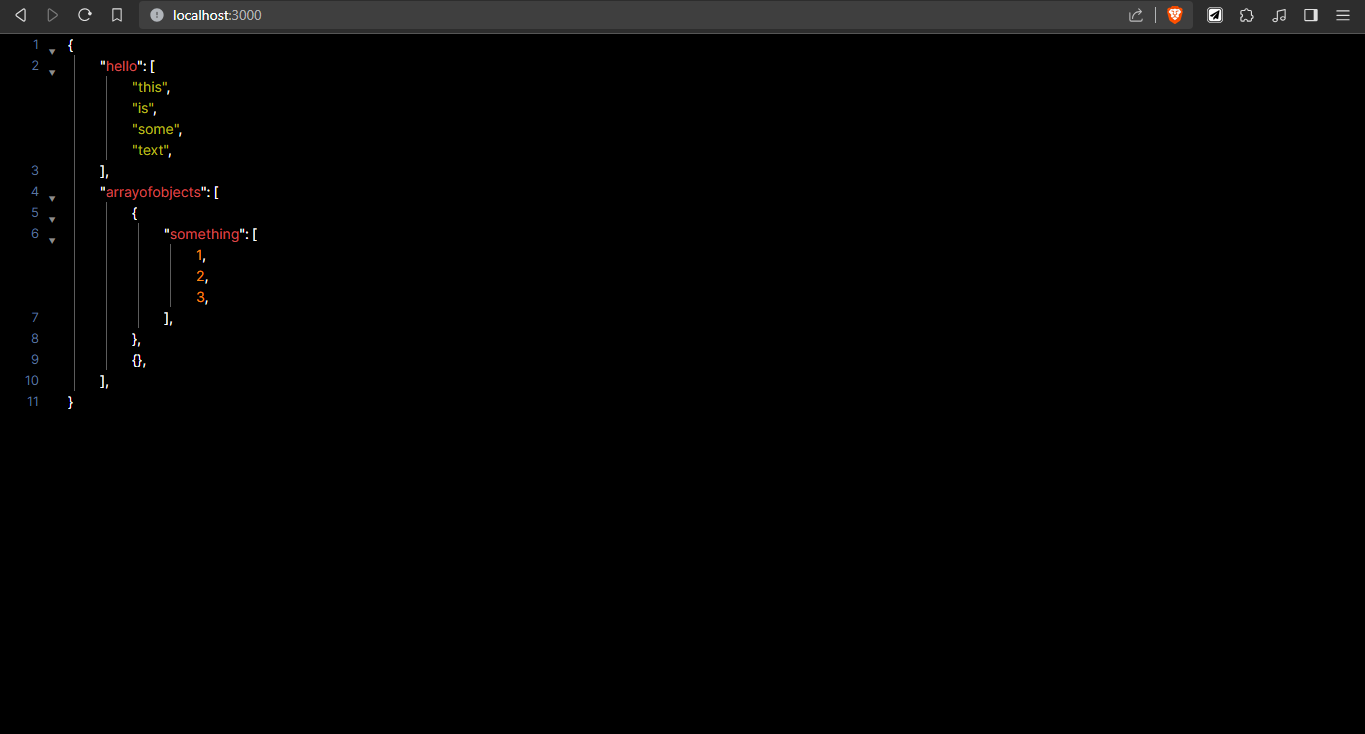
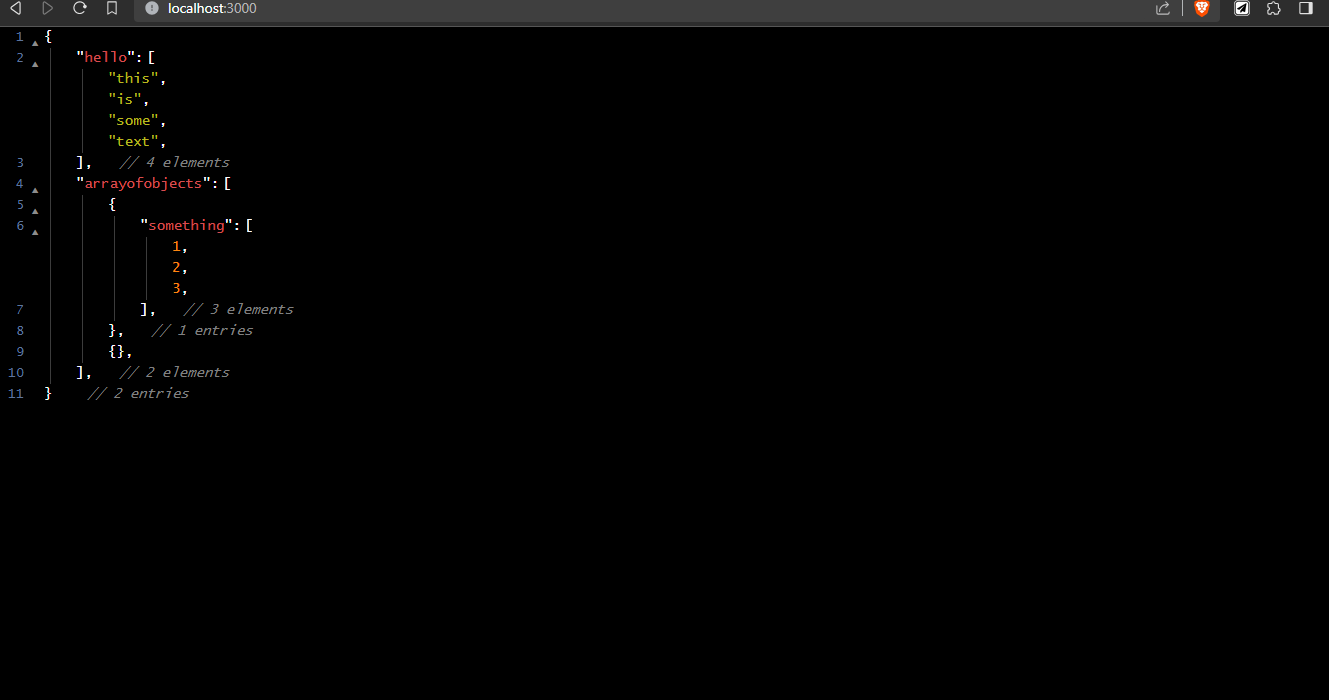
added functionality for react

diff --git a/index.ts b/index.ts
@@ -6,6 +6,20 @@ let num = 0;
 const tags = {
   div: (data: string, style?: string): string => `<div ${style ? `style="${style}"` : ''}>${data}</div>`,
   span: (data: string, style?: string): string => `<span ${style ? `style="${style}"` : ''}>${data}</span>`,
+  comment: (data: string, styles: JsonToHtmlOptionType): string =>
+    styles.comments!.show
+      ? `<i style="
+    color:${styles.comments!.color};
+    position:absolute;
+    margin-left:${styles.comments!.space_from_left};
+    -webkit-touch-callout: none;
+    -webkit-user-select: none;
+    -khtml-user-select: none;
+    -moz-user-select: none;
+    -ms-user-select: none;
+    user-select: none;
+    ">${data}</i>`
+      : '',
   br: () => `<br>`,
   code: (data: (...args: any[]) => any | string, styles: JsonToHtmlOptionType, style?: string) =>
     `<pre style="
@@ -25,6 +39,12 @@ const tags = {
     background:${styles.colors!.background!};
     font-size:calc(${styles.fontSize} - 1px);
     translate: -100% 1px;
+    -webkit-touch-callout: none;
+    -webkit-user-select: none;
+    -khtml-user-select: none;
+    -moz-user-select: none;
+    -ms-user-select: none;
+    user-select: none;
       ${style || ''}"
       >${++num}</span>`
       : '',
@@ -46,18 +66,34 @@ const tags = {
       ? `<button style="
         color:${styles.retractors!.color};
         position:absolute;
-        left: calc(${styles.line_numbers!.space_from_left} + ${styles.retractors!.space_from_left} + ${
-          styles.line_numbers!.show ? styles.fontSize : '0px'
-        });
-        translate:0 -${styles.fontSize};
+        left:${styles.retractors!.space_from_left};
+        translate:0 -${styles.fontSize!};
         background: ${styles.colors!.background};
 	      border: none;
 	      padding: 0;
 	      outline: inherit;
         overflow: hidden;
         font-size: ${styles.fontSize};
+        -webkit-touch-callout: none;
+        -webkit-user-select: none;
+        -khtml-user-select: none;
+        -moz-user-select: none;
+        -ms-user-select: none;
+        user-select: none;
         "
-        onclick="jsontohtmlClose(this)">▾</button>`
+        onclick="(function(e){
+          const entries = e.target.parentElement.querySelector('div');
+          if(entries.style.display === 'block' || entries.style.display === ''){
+            entries.style.display = 'none';
+            e.target.parentElement.style.display = 'inline-block'
+            e.target.innerText = '▾';
+          }else {
+            entries.style.display = 'block';
+            e.target.parentElement.style.display = 'block'
+            e.target.innerText = '▴';
+          }
+        return false;
+        })(arguments[0]);return false;">▴</button>`
       : '',
 };
 
@@ -94,7 +130,8 @@ const parseOperations = {
         }`,
       ) +
       tags.number(styles) +
-      tags.curlyBrace('}', styles)
+      tags.curlyBrace('}', styles) +
+      tags.comment(` // ${Object.entries(data).length} entries`, styles)
     );
   },
   array: (data: any[], styles: JsonToHtmlOptionType): string => {
@@ -109,6 +146,7 @@ const parseOperations = {
         `padding-left:${styles.space!};`,
       );
     }
+
     return (
       tags.squareBrace('[', styles) +
       tags.div(
@@ -121,7 +159,8 @@ const parseOperations = {
         }`,
       ) +
       tags.number(styles) +
-      tags.squareBrace(']', styles)
+      tags.squareBrace(']', styles) +
+      tags.comment(` // ${data.length} elements`, styles)
     );
   },
   string: (data: string, styles: JsonToHtmlOptionType): string => {
@@ -151,16 +190,27 @@ const parseJson = (data: any, styles: JsonToHtmlOptionType, addNumber?: boolean)
   if (typeof data === 'object' && data instanceof Object && !(data instanceof Array))
     return parseOperations.object(data, styles);
   else if (typeof data === 'object' && data instanceof Array) {
-    const html =
-      `${styles.line_numbers!.show && (num === 0 || addNumber) ? tags.number(styles) : ''}` +
-      parseOperations.array(data, styles);
+    const html = `${num === 0 || addNumber ? tags.number(styles) : ''}` + parseOperations.array(data, styles);
     return html;
-  } else if (typeof data === 'string') return parseOperations.string(data, styles);
-  else if (typeof data === 'object' && JSON.stringify(data) === 'null') return parseOperations.null(styles);
-  else if (typeof data === 'number') return parseOperations.number(data, styles);
-  else if (typeof data === 'boolean') return parseOperations.boolean(data, styles);
-  else if (typeof data === 'undefined') return parseOperations.undefined(styles);
-  else if (typeof data === 'function') return parseOperations.function(data, styles);
+  } else if (typeof data === 'string') {
+    const html = `${num === 0 ? tags.number(styles) : ''}` + parseOperations.string(data, styles);
+    return html;
+  } else if (typeof data === 'object' && JSON.stringify(data) === 'null') {
+    const html = `${num === 0 ? tags.number(styles) : ''}` + parseOperations.null(styles);
+    return html;
+  } else if (typeof data === 'number') {
+    const html = `${num === 0 ? tags.number(styles) : ''}` + parseOperations.number(data, styles);
+    return html;
+  } else if (typeof data === 'boolean') {
+    const html = `${num === 0 ? tags.number(styles) : ''}` + parseOperations.boolean(data, styles);
+    return html;
+  } else if (typeof data === 'undefined') {
+    const html = `${num === 0 ? tags.number(styles) : ''}` + parseOperations.undefined(styles);
+    return html;
+  } else if (typeof data === 'function') {
+    const html = `${num === 0 ? tags.number(styles) : ''}` + parseOperations.function(data, styles);
+    return html;
+  }
 
   return parseOperations.other(data, styles);
 };
@@ -173,6 +223,10 @@ export function jsontohtml(data: any, options?: JsonToHtmlOptionType): string {
     colors: {
       ...defaultStyles.colors,
       ...options?.colors,
+    },
+    comments: {
+      ...defaultStyles.comments,
+      ...options?.comments,
     },
     line_numbers: {
       ...defaultStyles.line_numbers,
@@ -199,36 +253,13 @@ export function jsontohtml(data: any, options?: JsonToHtmlOptionType): string {
   return `
   <div style="
   position:relative;
-  ${
-    styles.line_numbers
-      ? `padding-left:calc(${styles.space_from_left!} + ${styles.line_numbers!.space_from_left} + ${
-          styles.retractors!.space_from_left
-        } + ${styles.line_numbers!.show ? styles.fontSize : '0px'});`
-      : ''
-  }
+  padding-left:${styles.space_from_left};
   background:${styles.colors!.background};
-  font-size:${styles.fontSize};
+  font-size:${styles.fontSize} !important;
   ${styles.font ? `font-family:${styles.font}` : ''}
   ">
   ${parseJson(data, styles)}
   </div>
-  ${
-    styles.retractors!.show
-      ? `<script>
-    const jsontohtmlClose = (element)=>{
-      const parent = element.parentElement;
-      const dataTag = parent.querySelector("div");
-      if(dataTag.style.display === "block" || dataTag.style.display === ""){
-        dataTag.style.display = "none";
-        element.innerText = "▴";
-      }else {
-        dataTag.style.display = "block";
-        element.innerText = "▾";
-      }
-    }
-  </script>`
-      : ''
-  }
   `.replace(
     /(https?:\/\/(www\.)?[-a-zA-Z0-9@:%._\+~#=]{2,256}\.[a-z]{2,4}\b([-a-zA-Z0-9@:%_\+.~#?&//=]*))/g,
     `${

diff --git a/src/default.ts b/src/default.ts
@@ -2,8 +2,9 @@ import { JsonToHtmlOptionType } from './types';
 
 export const defaultStyles: JsonToHtmlOptionType = {
   fontSize: '14px',
+  font: "'Lucida Console', monospace",
   space: '25px',
-  space_from_left: '20px',
+  space_from_left: '50px',
   links: true,
   colors: {
     background: 'black',
@@ -21,19 +22,24 @@ export const defaultStyles: JsonToHtmlOptionType = {
       comma_colon_quotes: '#FFFFFF',
     },
   },
+  comments: {
+    show: true,
+    color: 'gray',
+    space_from_left: '35px',
+  },
   retractors: {
     show: true,
     color: '#8c8c8c',
-    space_from_left: '-5px',
+    space_from_left: '37px',
   },
   line_numbers: {
     show: true,
     color: '#5c749c',
-    space_from_left: '40px',
+    space_from_left: '30px',
   },
   bracket_pair_lines: {
     show: true,
-    color: '#5c5c5c',
+    color: '#3c3c3c',
     space_from_left: '6px',
     type: 'solid',
   },

diff --git a/src/types.ts b/src/types.ts
@@ -20,6 +20,11 @@ export interface JsonToHtmlOptionType {
       comma_colon_quotes?: string;
     };
   };
+  comments?: {
+    show?: boolean;
+    color?: string;
+    space_from_left?: string;
+  };
   line_numbers?: {
     show?: boolean;
     color?: string;

diff --git a/README.md b/README.md
@@ -16,6 +16,7 @@ npm install jsontohtml-render
 - [Usage](#usage)
   - [Usage Example](#usage-examples)
 - [Options](#options)
+  - [Options Usage Example](#options-usage-examples)
   - [Option type definition](#type-declaration-of-the-options-property-of-type-jsontohtmloptiontype)
   - [Option default values](#default-values)
   - [Description of all the options available](#description-of-the-options)
@@ -73,9 +74,7 @@ export default function Home() {
 
   const makeRequest = async (url: string) => {
     const result = await axios.get(url);
-
-    // because react and next do not allow script tags, retractors cannot be used
-    setHtml(jsontohtml(result.data, { retractors: { show: false } }));
+    setHtml(jsontohtml(result.data));
   };
 
   useEffect(() => {
@@ -93,6 +92,59 @@ export default function Home() {
 ## Options
 
 The html preview of the object can be fully customized with the options property.
+
+### Options usage examples
+
+- For increasing the font size, you also need to change the spacing (for better formatting):
+
+```js
+jsontohtml(data, {
+  fontSize: '25px',
+  space: '40px',
+  space_from_left: '80px',
+  line_numbers: { space_from_left: '50px' },
+  retractors: { space_from_left: '60px' },
+});
+```
+
+- You can change visibility of any components:
+
+```js
+jsontohtml(data, {
+  line_numbers: { show: false },
+
+  // for better formatting
+  space_from_left: '20px',
+  retractors: { space_from_left: '5px' },
+});
+```
+
+- For changing colors:
+
+```js
+jsontohtml(data, {
+  colors: {
+    background: 'white',
+    keys: 'red',
+    values: {
+      string: 'green',
+      number: '#FFA500',
+      comma_colon_quotes: '#9c9c9c',
+    },
+  },
+  bracket_pair_lines: { color: '#bcbcbc' },
+});
+```
+
+- For disabling links:
+
+```js
+jsontohtml(data, {
+  links: false,
+});
+```
+
+For description of all the options read the blocks ahead.
 
 ### Type declaration of the options property (of type JsonToHtmlOptionType):
 
@@ -119,6 +171,11 @@ export interface JsonToHtmlOptionType {
       comma_colon_quotes?: string;
     };
   };
+  comments?: {
+    show?: boolean;
+    color?: string;
+    space_from_left?: string;
+  };
   line_numbers?: {
     show?: boolean;
     color?: string;
@@ -143,8 +200,9 @@ export interface JsonToHtmlOptionType {
 ```ts
 export const defaultStyles: JsonToHtmlOptionType = {
   fontSize: '14px',
+  font: "'Lucida Console', monospace",
   space: '25px',
-  space_from_left: '20px',
+  space_from_left: '50px',
   links: true,
   colors: {
     background: 'black',
@@ -162,24 +220,28 @@ export const defaultStyles: JsonToHtmlOptionType = {
       comma_colon_quotes: '#FFFFFF',
     },
   },
+  comments: {
+    show: true,
+    color: 'gray',
+    space_from_left: '35px',
+  },
   retractors: {
     show: true,
     color: '#8c8c8c',
-    space_from_left: '-5px',
+    space_from_left: '37px',
   },
   line_numbers: {
     show: true,
     color: '#5c749c',
-    space_from_left: '40px',
+    space_from_left: '30px',
   },
   bracket_pair_lines: {
     show: true,
-    color: '#5c5c5c',
+    color: '#3c3c3c',
     space_from_left: '6px',
     type: 'solid',
   },
 };
-// Note: Other values like "font" is left to browser default
 ```
 
 ### Description of the options:
@@ -255,6 +317,20 @@ export const defaultStyles: JsonToHtmlOptionType = {
     - comma_colon_quotes: To change the color of all the commas, colons and quotes
 
       `example values: "white", "#fceb4e"`
+
+- comments: To manage the visibility and styles of the comments (number of element) for each object or array
+
+  - show: If "false it will not show the comments
+
+    `It should contain a boolean value (i.e. true or false)`
+
+  - color: To change the color of the comments
+
+    `example values: "orange", "#fceb4e"`
+
+  - space_from_left: To change the space between closing backets and the comment
+
+    `example values: "2rem", "20px"`
 
 - line_numbers: To manage the visibility and styles of the line numbers on the lefside.
 
